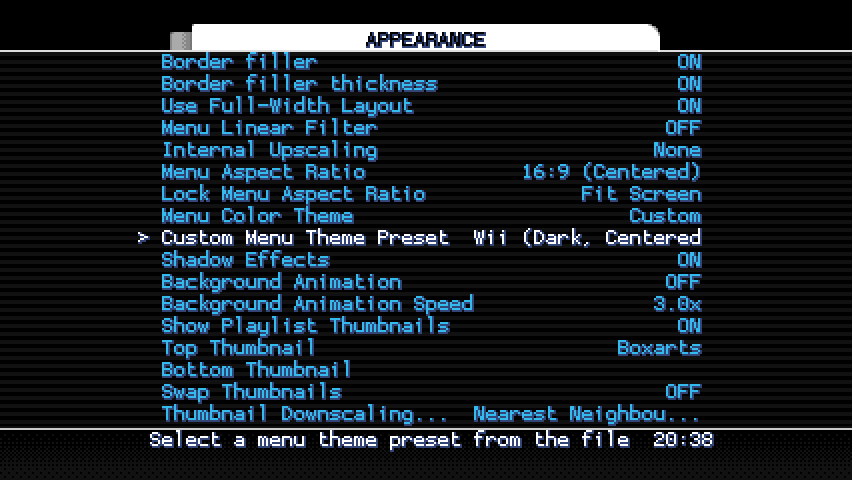
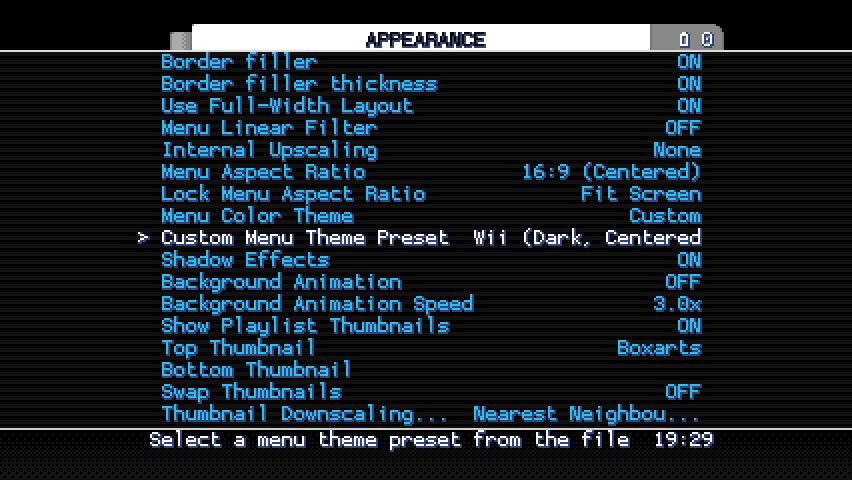
Fixed the bottom gradient on Wii (Dark). Added a dedicated area for the battery indicator on Wii (Dark)/Wii (Dark, Centered).

Changed region(s): [[0.7629, 0.0312, 0.8545, 0.125], [0.7629, 0.9062, 0.8545, 0.9375]]

diff --git a/README.md b/README.md
@@ -25,6 +25,10 @@ A series of custom themes with original artwork for recent versions of RetroArch
 	</tbody>
 </table>
 
-
 There's only two at the moment, but more may come as I get the ideas and the motivation.
 
+## Known Compatibility Issues
+<b>Nintendo 2DS/3DS Family</b>
+<ul>
+	<li>Due to its screen resolution of 400x240, only the 4:3 and 16:10 theme variants are supported.</li>
+</ul>

diff --git a/CHANGES.md b/CHANGES.md
@@ -1,7 +1,9 @@
 # Changes
 
-##2020-05-21
+## 2020-05-21
 <ul>
+	<li>Fixed the bottom gradient on Wii (Dark).</li>
+	<li>Added a dedicated area for the battery indicator on Wii (Dark)/Wii (Dark, Centered).</li>
 	<li>Brightened stripes on background for Wii/Wii (Centered) to reduce eye strain and make text more legible.</li>
 	<li>Introduced changelog at CHANGES.md</li>
 </ul>
